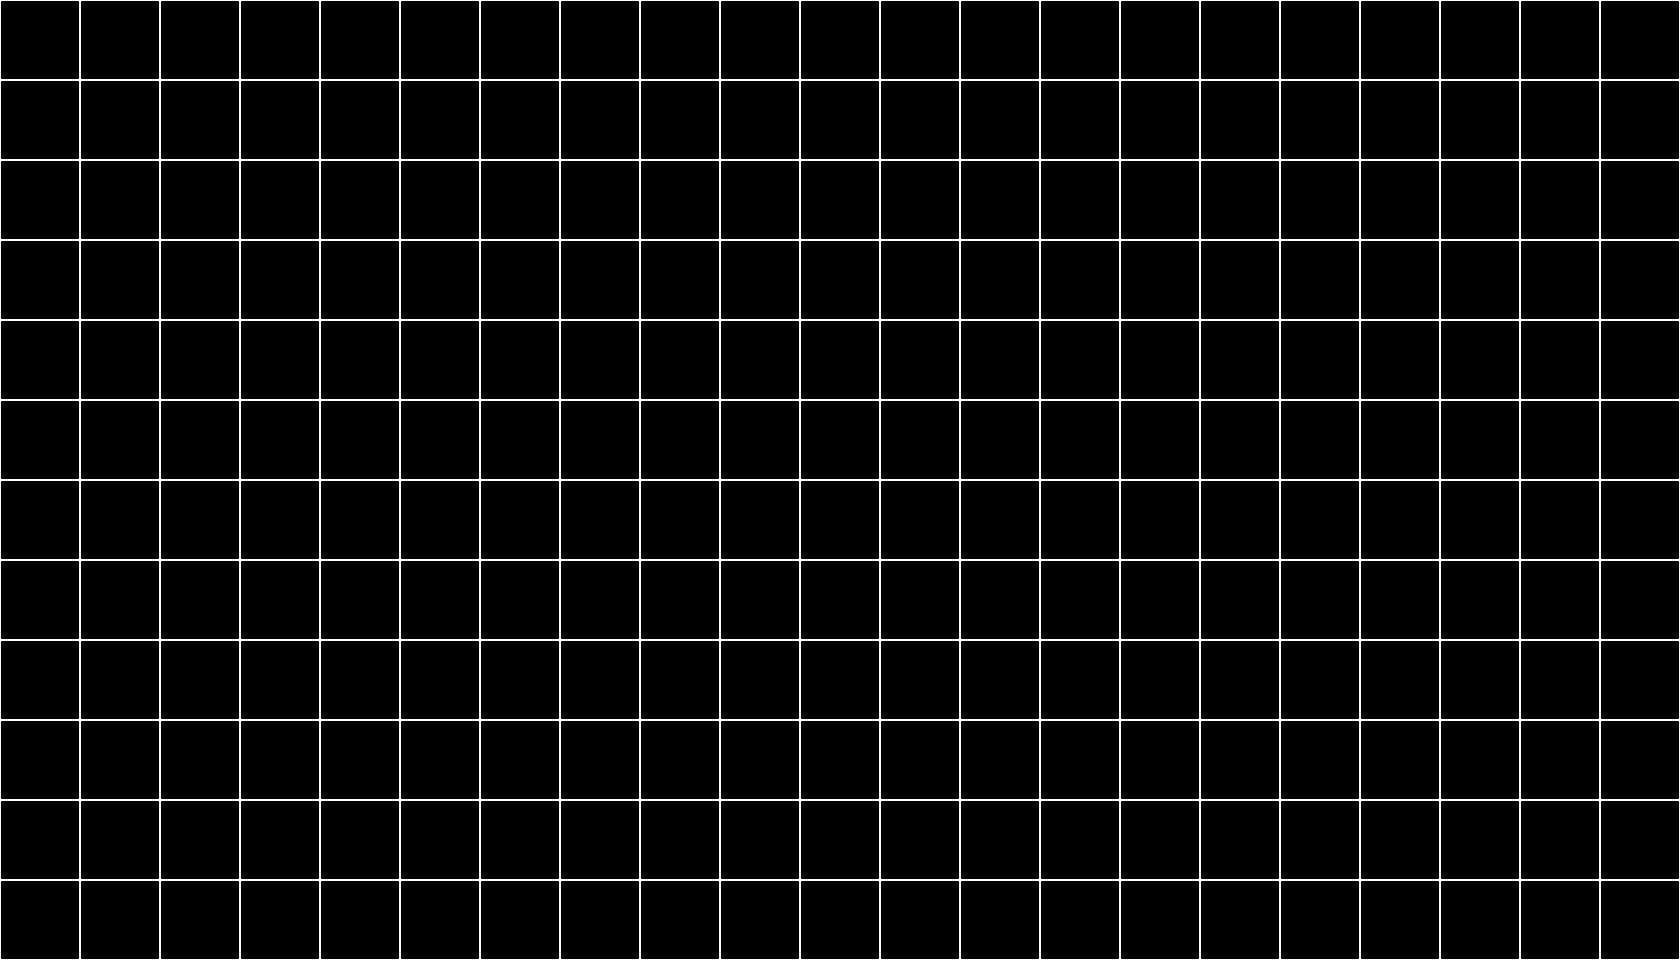
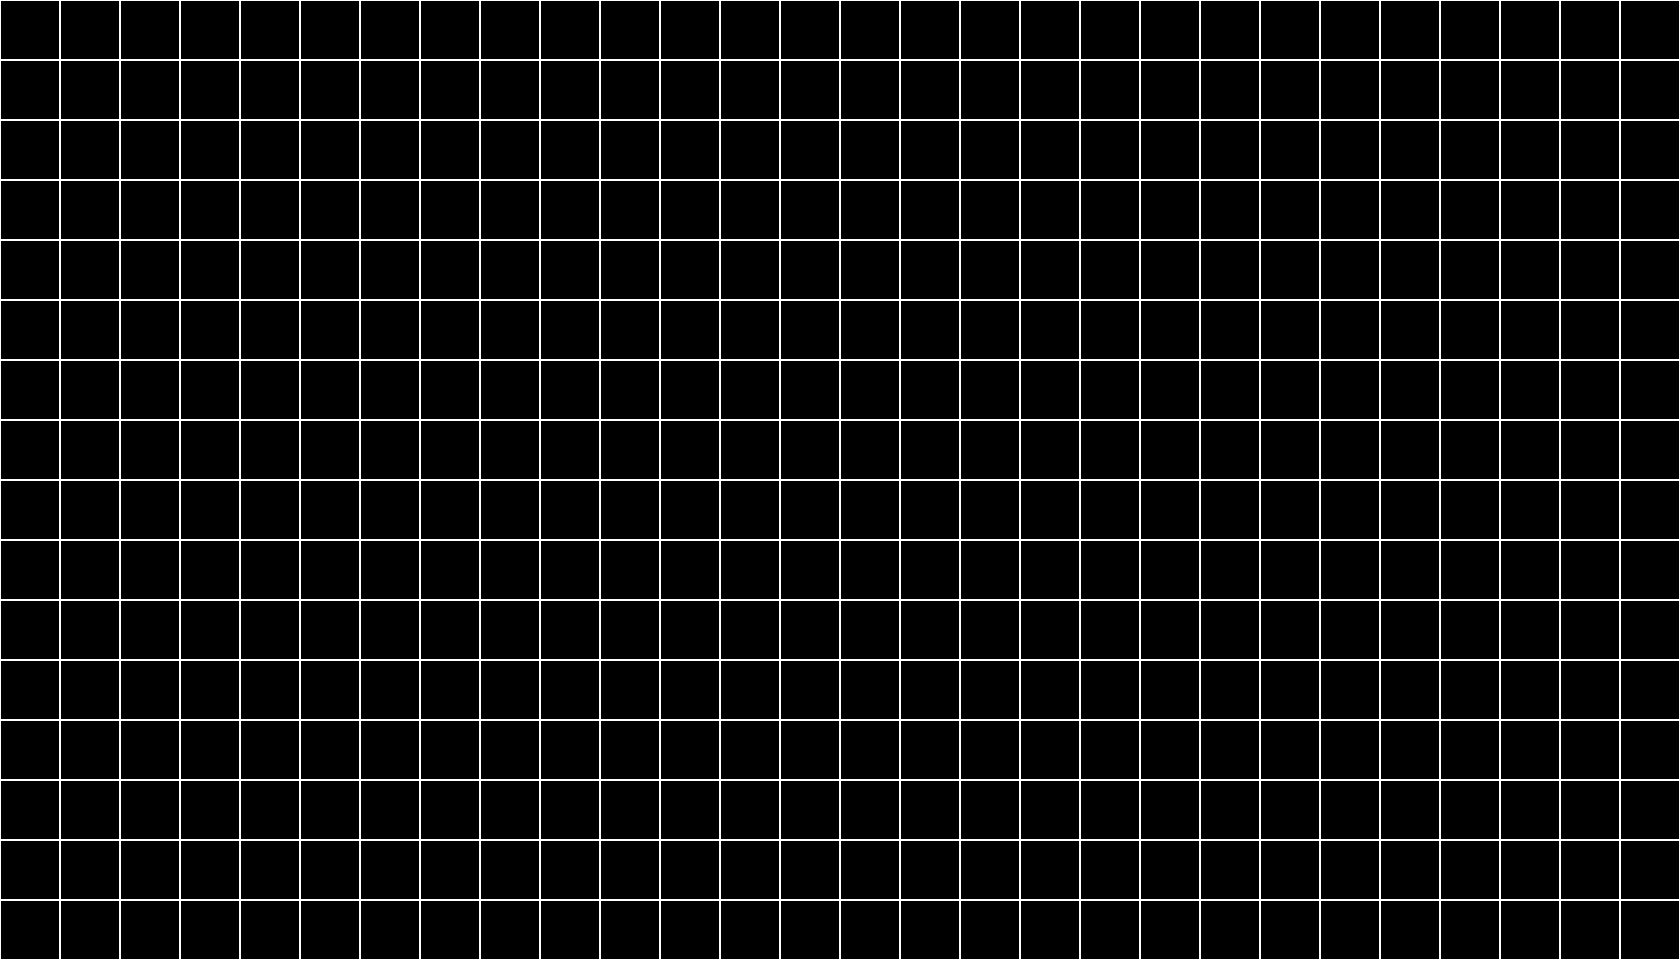
fixing a bunch of textures

diff --git a/js/upgradeTree.js b/js/upgradeTree.js
@@ -167,8 +167,7 @@ const upgradeTree = (() => {
 
     function _createPanel() {
         // Pretty background image - moves with the nodes
-        panelBg = PhaserScene.add.image(TREE_CENTER_X, GAME_CONSTANTS.halfHeight, 'backgrounds', 'upgrade_background.png');
-        panelBg.setScale(1.2);
+        panelBg = PhaserScene.add.image(TREE_CENTER_X, GAME_CONSTANTS.halfHeight - 350, 'backgrounds', 'upgrade_background.png');
         panelBg.setDepth(GAME_CONSTANTS.DEPTH_UPGRADE_TREE);
         panelBg.setScrollFactor(0);
         panelBg.setVisible(false);
@@ -1126,34 +1125,31 @@ const upgradeTree = (() => {
         const groupY = treeGroup ? treeGroup.y : 0;
 
         const minVisX = groupX;
-        const maxVisX = groupX + GAME_CONSTANTS.halfWidth - 20;
-        const minVisY = groupY + 22;
-        const maxVisY = groupY + GAME_CONSTANTS.HEIGHT - 22;
+        const maxVisX = groupX + GAME_CONSTANTS.halfWidth;
 
-        const scale = 1.2;
-        const texW = 728;
-        const texH = 1024;
+        const texW = 1143;
+        const texH = 1590;
 
-        // Bounds of the scaled sprite
-        const spriteLeft = panelBg.x - (texW * scale) / 2;
-        const spriteRight = panelBg.x + (texW * scale) / 2;
-        const spriteTop = panelBg.y - (texH * scale) / 2;
-        const spriteBottom = panelBg.y + (texH * scale) / 2;
+        // Bounds of the sprite (assuming scale 1)
+        const spriteLeft = panelBg.x - texW / 2;
+        const spriteRight = panelBg.x + texW / 2;
+        const spriteTop = panelBg.y - texH / 2;
+        const spriteBottom = panelBg.y + texH / 2;
 
         // Calculate visible portion
         const cropLeft = Math.max(spriteLeft, minVisX);
         const cropRight = Math.min(spriteRight, maxVisX);
-        const cropTop = Math.max(spriteTop, minVisY);
-        const cropBottom = Math.min(spriteBottom, maxVisY);
+        const cropTop = spriteTop;
+        const cropBottom = spriteBottom;
 
-        const cropW = (cropRight - cropLeft) / scale;
-        const cropH = (cropBottom - cropTop) / scale;
+        const cropW = cropRight - cropLeft;
+        const cropH = cropBottom - cropTop;
 
         if (cropW <= 0 || cropH <= 0) {
             panelBg.setCrop(0, 0, 0.1, 0.1);
         } else {
-            const cropX = (cropLeft - spriteLeft) / scale;
-            const cropY = (cropTop - spriteTop) / scale;
+            const cropX = cropLeft - spriteLeft;
+            const cropY = cropTop - spriteTop;
             panelBg.setCrop(cropX, cropY, cropW, cropH);
         }
 

diff --git a/js/util/glitchFX.js b/js/util/glitchFX.js
@@ -37,7 +37,7 @@ const glitchFX = (() => {
         }
 
         // Pre-create permanent background grid (for system scans etc)
-        bgGrid = PhaserScene.add.image(GAME_CONSTANTS.halfWidth, GAME_CONSTANTS.halfHeight - 40, 'backgrounds', 'black_grid.png');
+        bgGrid = PhaserScene.add.image(GAME_CONSTANTS.halfWidth, GAME_CONSTANTS.halfHeight, 'backgrounds', 'black_grid.png');
         bgGrid.setDepth(1).setVisible(false);
 
         // Pre-allocate system scan assets (Pooling)
